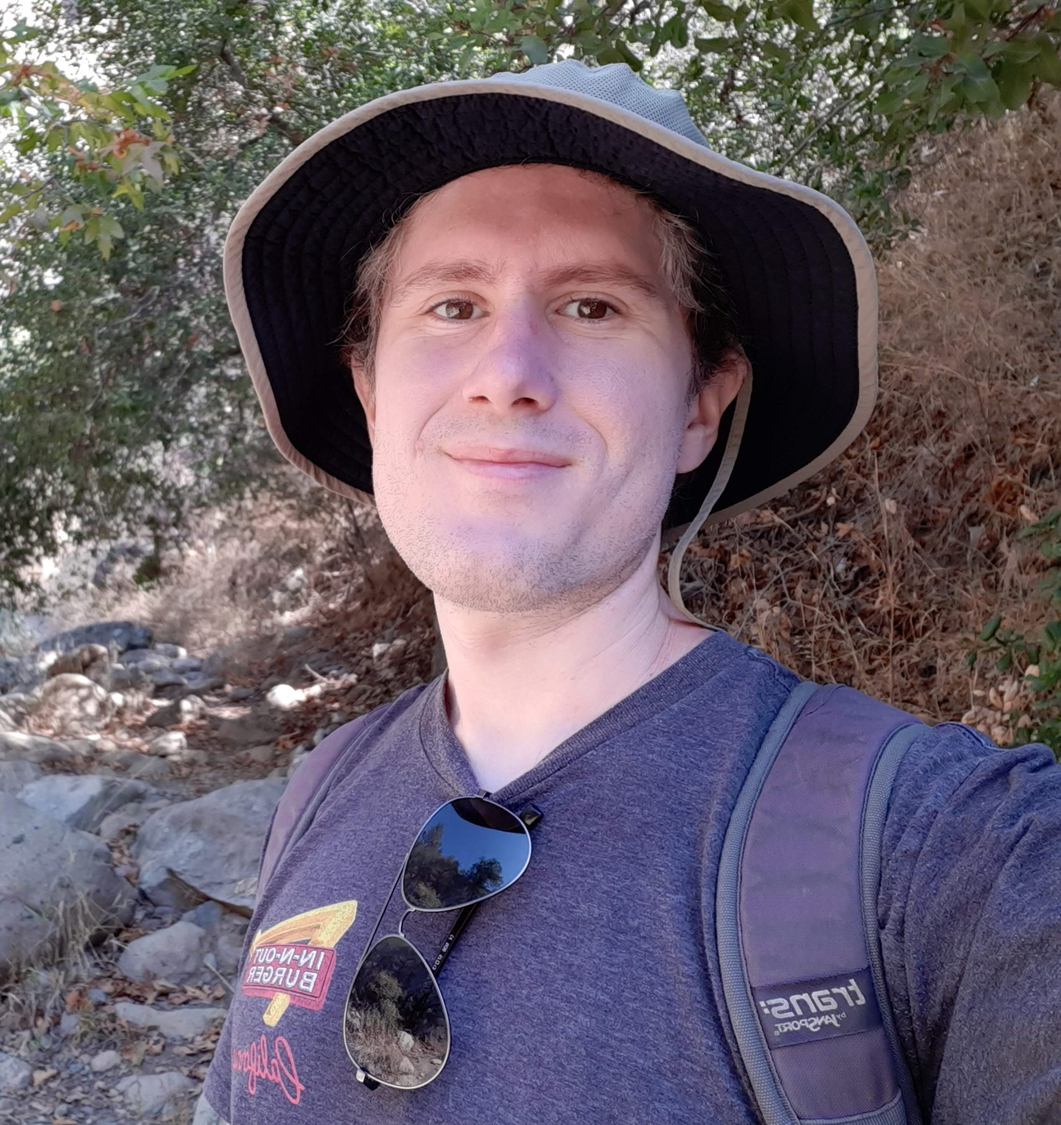
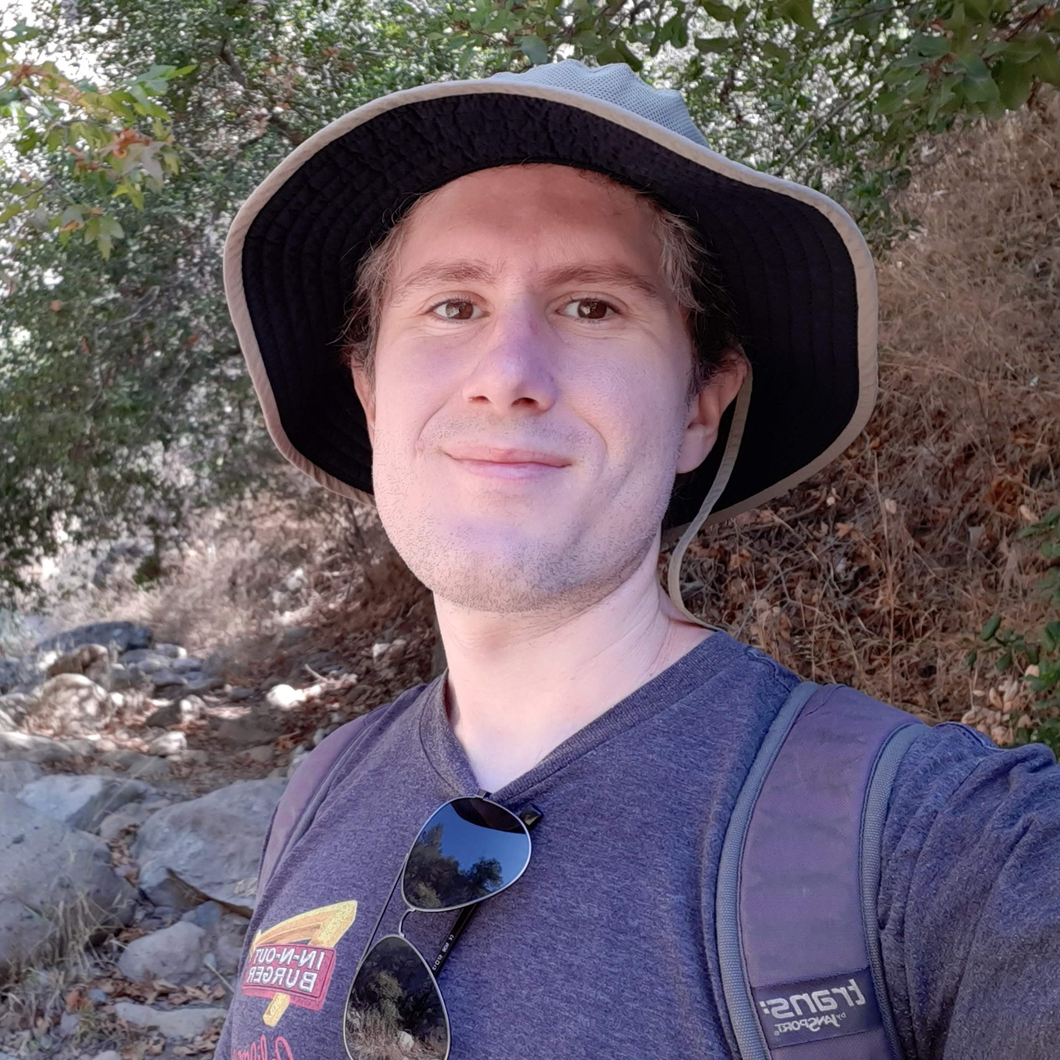
center picture and make it a circle

diff --git a/index.css b/index.css
@@ -1,10 +1,13 @@
 .project {
-    padding: 10px;
     margin: 20px 0;
 }
 
 #face {
     max-width: 100%;
+    border-radius: 50%;
+    padding: 20px 0;
+    margin: auto;
+    display: block;
 }
 
 iframe {
